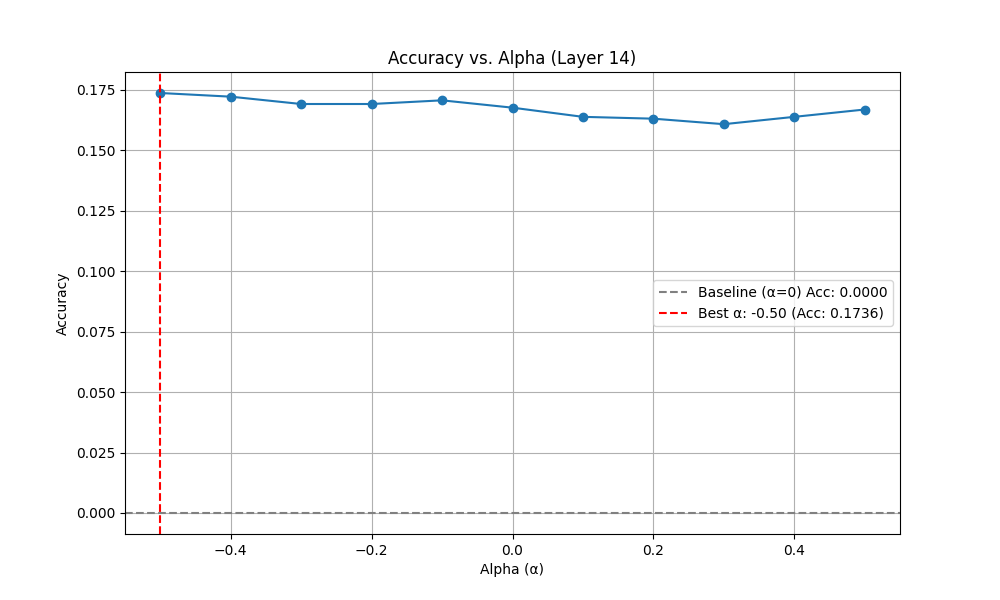
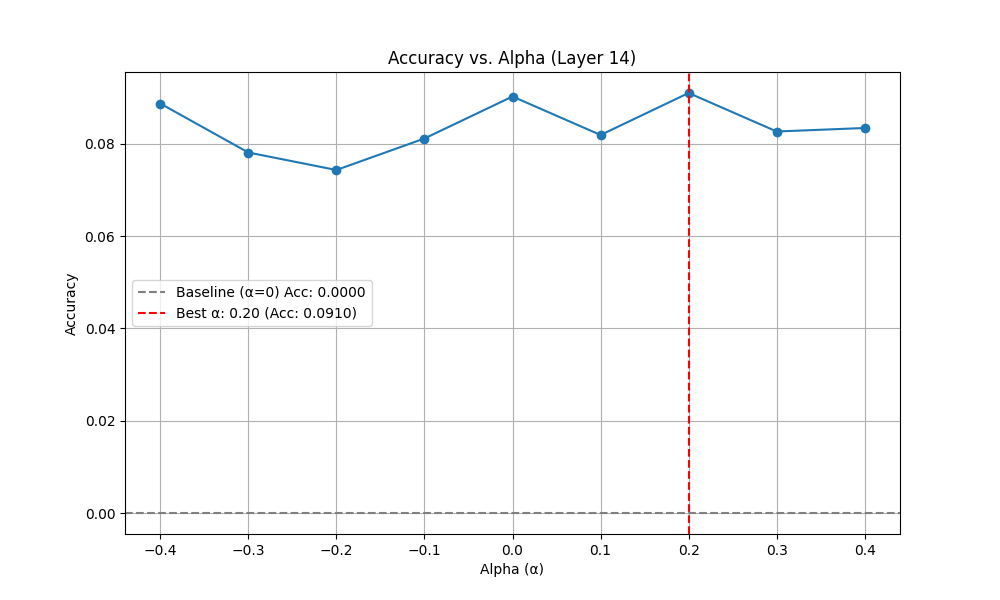
qwen2.5 updated results

diff --git a/re/src/validate.py b/re/src/validate.py
@@ -24,6 +24,8 @@ from math_grader import r1_zero_reward_fn
 
 from utils import extract_ground_truth_answer, answer_only_reward_fn
 
+torch.manual_seed(42)
+
 
 @dataclass
 class ValidationConfig:
@@ -123,9 +125,7 @@ def run_validation(config: ValidationConfig):
     device = "cuda" if torch.cuda.is_available() else "cpu"
 
     tokenizer: PreTrainedTokenizerFast = AutoTokenizer.from_pretrained(
-        config.model_name,
-        padding_side="left",
-        dtype=torch.float16,
+        config.model_name, padding_side="left", dtype=torch.float16, add_bos_token=False
     )
     if tokenizer.pad_token is None:
         tokenizer.pad_token = tokenizer.eos_token
@@ -158,15 +158,7 @@ def run_validation(config: ValidationConfig):
         print(f"Error: Control vector file not found at {config.vector_file_path}")
         return None, None, None
 
-    # Load prompt template
-    if os.path.exists(config.prompt_template_path):
-        with open(config.prompt_template_path, "r") as f:
-            prompt_template = f.read()
-    else:
-        print(
-            f"Warning: Prompt template not found at {config.prompt_template_path}. Using default."
-        )
-        prompt_template = """A conversation between User and Assistant. The User asks a question, and the Assistant solves it. The Assistant first thinks about the reasoning process in the mind and then provides the User with the answer. The reasoning process is enclosed within <think> </think> and answer is enclosed within <answer> </answer> tags, respectively, i.e., <think> reasoning process here </think> <answer> answer here </answer>.
+    prompt_template = """A conversation between User and Assistant. The User asks a question, and the Assistant solves it. The Assistant first thinks about the reasoning process in the mind and then provides the User with the answer. The reasoning process is enclosed within <think> </think> and answer is enclosed within <answer> </answer> tags, respectively, i.e., <think> reasoning process here </think> <answer> answer here </answer>.
 User: {question}
 Assistant: <think>
 """
@@ -201,8 +193,11 @@ Assistant: <think>
     for alpha in tqdm(alphas, desc="Evaluating Alphas", dynamic_ncols=True):
         alpha_key = f"{alpha:.2f}"
         start_time = time.time()
-        model = AutoModelForCausalLM.from_pretrained(config.model_name, torch_dtype=torch.float16).to(device)  # type: ignore
+        model = AutoModelForCausalLM.from_pretrained(config.model_name, dtype=torch.float16).to(device)  # type: ignore
         model.eval()
+
+        vocab_size = model.config.vocab_size
+
         injector = ControlVectorInjector(
             model, control_vectors, alpha=float(alpha), layers=[config.injection_layer]  # type: ignore
         )
@@ -222,20 +217,37 @@ Assistant: <think>
                 outputs = model.generate(
                     **inputs,
                     max_new_tokens=config.max_new_tokens,
-                    do_sample=False,
-                    pad_token_id=tokenizer.pad_token_id,
-                    eos_token_id=tokenizer.eos_token_id,
-                    use_cache=True,
+                    do_sample=True,
                     temperature=1.0,
+                    top_p=1.0,
+                    top_k=vocab_size,
+                    pad_token_id=tokenizer.pad_token_id,
+                    return_dict_in_generate=True,
                 )
 
-                generated_texts = tokenizer.batch_decode(
-                    outputs[:, inputs["input_ids"].shape[1] :], skip_special_tokens=True
+                sequences = outputs.sequences  # type: ignore
+                if not isinstance(sequences, torch.Tensor):
+                    sequences = torch.tensor(sequences).detach()
+
+                gen_ids = sequences[:, inputs["input_ids"].shape[1] :]
+
+                generated_texts_raw = tokenizer.batch_decode(
+                    gen_ids,
+                    skip_special_tokens=True,
                 )
+
+                stop_str = "</answer>"
+                generated_texts = []
+                for text in generated_texts_raw:
+                    idx = text.find(stop_str)
+                    if idx != -1:
+                        text = text[: idx + len(stop_str)]
+                    generated_texts.append(text)
 
                 for i, (gen_text, gt) in enumerate(
                     zip(generated_texts, batch_responses)
                 ):
+
                     # Use the same extraction logic as sft evaluation
                     gt_extracted = extract_ground_truth_answer(gt)
                     if not gt_extracted:
@@ -243,7 +255,7 @@ Assistant: <think>
                         gt_extracted = gt.strip()
 
                     reward_dict = (
-                        r1_zero_reward_fn(gen_text, gt_extracted, fast=True)
+                        r1_zero_reward_fn(gen_text, gt_extracted)
                         if config.require_format
                         else answer_only_reward_fn(
                             gen_text.splitlines()[-1], gt_extracted
